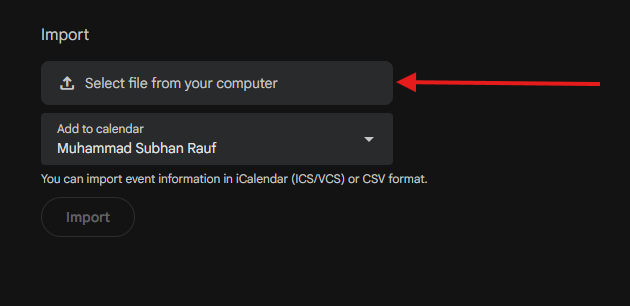
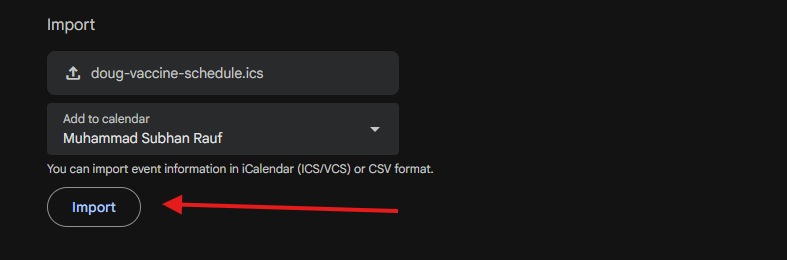
added supabase support and other minor fixes

diff --git a/vaccine-scheduler-frontend/src/components/export/ExportModal.jsx b/vaccine-scheduler-frontend/src/components/export/ExportModal.jsx
@@ -32,6 +32,22 @@ function ExportModal({ isOpen, onClose, schedule, dogName, dogInfo }) {
     }, 100);
   }
 
+  function handleMainExport() {
+    switch (activeTab) {
+      case 'apple':
+        handleExportICS();
+        break;
+      case 'google':
+        handleExportGoogle();
+        break;
+      case 'pdf':
+        handleExportPDF();
+        break;
+      default:
+        break;
+    }
+  }
+
   // Email handling
   function validateEmail(email) {
     return /^[^\s@]+@[^\s@]+\.[^\s@]+$/.test(email);
@@ -140,21 +156,11 @@ function ExportModal({ isOpen, onClose, schedule, dogName, dogInfo }) {
           <div className="export-tab-content">
             <h4>Import to Apple Calendar</h4>
             <ol className="export-steps">
-              <li>Click the "Download .ics File" button below</li>
+              <li>Click the "Download" button above</li>
               <li>Open the downloaded file</li>
               <li>Apple Calendar will prompt you to add the events</li>
               <li>Click "Add" to confirm</li>
             </ol>
-            <div className="export-action">
-              <button className="btn btn-primary" onClick={handleExportICS}>
-                <svg width="16" height="16" viewBox="0 0 24 24" fill="none" stroke="currentColor" strokeWidth="2">
-                  <path d="M21 15v4a2 2 0 0 1-2 2H5a2 2 0 0 1-2-2v-4"/>
-                  <polyline points="7 10 12 15 17 10"/>
-                  <line x1="12" y1="15" x2="12" y2="3"/>
-                </svg>
-                Download .ics File
-              </button>
-            </div>
           </div>
         );
 
@@ -166,7 +172,7 @@ function ExportModal({ isOpen, onClose, schedule, dogName, dogInfo }) {
               <div className="export-step-item">
                 <div className="export-step-number">1</div>
                 <div className="export-step-content">
-                  <p>Click the "Download & Open Google Calendar" button below</p>
+                  <p>Click the "Download" button above. The .ics file will download automatically and Google Calendar will open.</p>
                   <div className="export-screenshot">
                     <img src="/exportSteps/Google/step 1.png" alt="Step 1: Click the download button" />
                   </div>
@@ -176,9 +182,9 @@ function ExportModal({ isOpen, onClose, schedule, dogName, dogInfo }) {
               <div className="export-step-item">
                 <div className="export-step-number">2</div>
                 <div className="export-step-content">
-                  <p>The .ics file will download automatically</p>
+                  <p>Click "Select file from your computer" and select the downloaded .ics file</p>
                   <div className="export-screenshot">
-                    <img src="/exportSteps/Google/step 2.png" alt="Step 2: ICS file downloads" />
+                    <img src="/exportSteps/Google/step 2.png" alt="Step 2: Select file from computer" />
                   </div>
                 </div>
               </div>
@@ -186,9 +192,9 @@ function ExportModal({ isOpen, onClose, schedule, dogName, dogInfo }) {
               <div className="export-step-item">
                 <div className="export-step-number">3</div>
                 <div className="export-step-content">
-                  <p>The downloaded file will be in your Downloads folder, or whatever location you have set as your default download folder.</p>
+                  <p>Choose which calendar to add events to</p>
                   <div className="export-screenshot">
-                    <img src="/exportSteps/Google/step 3.png" alt="Step 3: Google Calendar import dialog" />
+                    <img src="/exportSteps/Google/step 3.png" alt="Step 3: Choose calendar" />
                   </div>
                 </div>
               </div>
@@ -196,53 +202,12 @@ function ExportModal({ isOpen, onClose, schedule, dogName, dogInfo }) {
               <div className="export-step-item">
                 <div className="export-step-number">4</div>
                 <div className="export-step-content">
-                  <p>Click "Select file from your computer"</p>
-                  <div className="export-screenshot">
-                    <img src="/exportSteps/Google/step 4.png" alt="Step 4: Select file from computer" />
-                  </div>
-                </div>
-              </div>
-
-              <div className="export-step-item">
-                <div className="export-step-number">5</div>
-                <div className="export-step-content">
-                  <p>Select the downloaded .ics file</p>
-                  <div className="export-screenshot">
-                    <img src="/exportSteps/Google/step 5.png" alt="Step 5: Select the ICS file" />
-                  </div>
-                </div>
-              </div>
-
-              <div className="export-step-item">
-                <div className="export-step-number">6</div>
-                <div className="export-step-content">
-                  <p>Choose which calendar to add events to</p>
-                  <div className="export-screenshot">
-                    <img src="/exportSteps/Google/step 6.png" alt="Step 6: Choose calendar" />
-                  </div>
-                </div>
-              </div>
-
-              <div className="export-step-item">
-                <div className="export-step-number">7</div>
-                <div className="export-step-content">
                   <p>Click "Import"</p>
                   <div className="export-screenshot">
-                    <img src="/exportSteps/Google/step 7.png" alt="Step 7: Click Import" />
+                    <img src="/exportSteps/Google/step 4.png" alt="Step 4: Click Import" />
                   </div>
                 </div>
               </div>
-            </div>
-
-            <div className="export-action">
-              <button className="btn btn-primary" onClick={handleExportGoogle}>
-                <svg width="16" height="16" viewBox="0 0 24 24" fill="none" stroke="currentColor" strokeWidth="2">
-                  <path d="M21 15v4a2 2 0 0 1-2 2H5a2 2 0 0 1-2-2v-4"/>
-                  <polyline points="7 10 12 15 17 10"/>
-                  <line x1="12" y1="15" x2="12" y2="3"/>
-                </svg>
-                Download & Open Google Calendar
-              </button>
             </div>
           </div>
         );
@@ -252,19 +217,11 @@ function ExportModal({ isOpen, onClose, schedule, dogName, dogInfo }) {
           <div className="export-tab-content">
             <h4>Save as PDF</h4>
             <ol className="export-steps">
-              <li>Click the "Open Print Dialog" button below</li>
+              <li>Click the "Download" button above</li>
               <li>Select "Save as PDF" as your printer/destination</li>
               <li>Choose your save location</li>
               <li>Click "Save" or "Print"</li>
             </ol>
-            <div className="export-action">
-              <button className="btn btn-primary" onClick={handleExportPDF}>
-                <svg width="16" height="16" viewBox="0 0 24 24" fill="currentColor">
-                  <path d="M19 8H5c-1.66 0-3 1.34-3 3v6h4v4h12v-4h4v-6c0-1.66-1.34-3-3-3zm-3 11H8v-5h8v5zm3-7c-.55 0-1-.45-1-1s.45-1 1-1 1 .45 1 1-.45 1-1 1zm-1-9H6v4h12V3z"/>
-                </svg>
-                Open Print Dialog
-              </button>
-            </div>
           </div>
         );
 
@@ -356,8 +313,19 @@ function ExportModal({ isOpen, onClose, schedule, dogName, dogInfo }) {
     }
   }
 
+  const headerActionButton = activeTab !== 'email' ? (
+    <button className="btn btn-primary" onClick={handleMainExport}>
+      <svg width="16" height="16" viewBox="0 0 24 24" fill="none" stroke="currentColor" strokeWidth="2">
+        <path d="M21 15v4a2 2 0 0 1-2 2H5a2 2 0 0 1-2-2v-4"/>
+        <polyline points="7 10 12 15 17 10"/>
+        <line x1="12" y1="15" x2="12" y2="3"/>
+      </svg>
+      Download
+    </button>
+  ) : null;
+
   return (
-    <Modal isOpen={isOpen} onClose={handleClose} title="Export Vaccination Schedule">
+    <Modal isOpen={isOpen} onClose={handleClose} title="Export Vaccination Schedule" headerAction={headerActionButton}>
       <div className="export-modal">
         <nav className="export-tabs">
           {TABS.map((tab) => (

diff --git a/vaccine-scheduler-frontend/src/components/common/Modal.jsx b/vaccine-scheduler-frontend/src/components/common/Modal.jsx
@@ -1,6 +1,6 @@
 import { useEffect } from 'react';
 
-function Modal({ isOpen, onClose, title, children, hideHeader = false }) {
+function Modal({ isOpen, onClose, title, children, hideHeader = false, headerAction = null }) {
   useEffect(() => {
     if (isOpen) {
       document.body.style.overflow = 'hidden';
@@ -19,10 +19,17 @@ function Modal({ isOpen, onClose, title, children, hideHeader = false }) {
       <div className={`modal-content ${hideHeader ? 'modal-content--no-header' : ''}`} onClick={(e) => e.stopPropagation()}>
         {!hideHeader && (
           <div className="modal-header">
-            <h3>{title}</h3>
-            <button className="modal-close" onClick={onClose}>
-              &times;
-            </button>
+            <div className="modal-header-top">
+              <h3>{title}</h3>
+              <button className="modal-close" onClick={onClose}>
+                &times;
+              </button>
+            </div>
+            {headerAction && (
+              <div className="modal-header-action">
+                {headerAction}
+              </div>
+            )}
           </div>
         )}
         {hideHeader && (

diff --git a/vaccine-scheduler-frontend/src/index.css b/vaccine-scheduler-frontend/src/index.css
@@ -785,16 +785,40 @@ a:hover {
 
 .modal-header {
   display: flex;
-  justify-content: space-between;
-  align-items: center;
+  flex-direction: column;
   padding: var(--spacing-md) var(--spacing-lg);
   border-bottom: 1px solid var(--border-color);
   background: var(--color-neutral-light);
+  position: relative;
+}
+
+.modal-header-top {
+  display: flex;
+  align-items: center;
+  width: 100%;
+  padding-right: 2rem;
 }
 
 .modal-header h3 {
   margin: 0;
   color: var(--color-primary);
+}
+
+.modal-header-top .modal-close {
+  position: absolute;
+  top: var(--spacing-md);
+  right: var(--spacing-lg);
+}
+
+.modal-header-action {
+  display: flex;
+  justify-content: flex-start;
+}
+
+.modal-header-action .btn {
+  display: inline-flex;
+  align-items: center;
+  gap: 0.5rem;
 }
 
 .modal-close {
@@ -1791,7 +1815,9 @@ a:hover {
   display: flex;
   gap: var(--spacing-sm);
 }
-
+.modal-header-top h3{
+  margin-bottom: 0px !important;
+}
 .schedule-view h3 {
   margin-bottom: var(--spacing-md);
   color: var(--color-primary);

diff --git a/vaccine-scheduler-frontend/src/components/export/ExportModal.css b/vaccine-scheduler-frontend/src/components/export/ExportModal.css
@@ -10,8 +10,6 @@
   margin: -1rem -1.5rem 1.5rem -1.5rem;
   padding: 0 0.5rem;
   background: var(--color-neutral-light);
-  overflow-x: auto;
-  -webkit-overflow-scrolling: touch;
 }
 
 .export-tab {

diff --git a/vaccine-scheduler/config/settings/base.py b/vaccine-scheduler/config/settings/base.py
@@ -5,6 +5,7 @@ import os
 from pathlib import Path
 from datetime import timedelta
 
+import dj_database_url
 from dotenv import load_dotenv
 
 # Load environment variables from .env file
@@ -76,15 +77,27 @@ TEMPLATES = [
 WSGI_APPLICATION = 'config.wsgi.application'
 
 # Database
-DATABASES = {
-    'default': {
-        'ENGINE': 'django.db.backends.sqlite3',
-        'NAME': BASE_DIR / 'db' / 'vaccine_scheduler.db',
-    }
-}
+# Use DATABASE_URL if available (Supabase PostgreSQL), otherwise fallback to SQLite
+DATABASE_URL = os.getenv('DATABASE_URL')
 
-# Ensure db directory exists
-(BASE_DIR / 'db').mkdir(exist_ok=True)
+if DATABASE_URL and DATABASE_URL != 'your-supabase-database-url-here':
+    DATABASES = {
+        'default': dj_database_url.config(
+            default=DATABASE_URL,
+            conn_max_age=600,
+            conn_health_checks=True,
+        )
+    }
+else:
+    # Fallback to SQLite for local development without Supabase
+    DATABASES = {
+        'default': {
+            'ENGINE': 'django.db.backends.sqlite3',
+            'NAME': BASE_DIR / 'db' / 'vaccine_scheduler.db',
+        }
+    }
+    # Ensure db directory exists for SQLite
+    (BASE_DIR / 'db').mkdir(exist_ok=True)
 
 # Custom User Model
 AUTH_USER_MODEL = 'accounts.User'

diff --git a/vaccine-scheduler/test_db_connection.py b/vaccine-scheduler/test_db_connection.py
@@ -1,0 +1,44 @@
+"""Simple script to test Supabase database connection."""
+import os
+import socket
+from dotenv import load_dotenv
+import psycopg2
+
+# Force IPv4
+original_getaddrinfo = socket.getaddrinfo
+
+def getaddrinfo_ipv4_only(host, port, family=0, type=0, proto=0, flags=0):
+    return original_getaddrinfo(host, port, socket.AF_INET, type, proto, flags)
+
+socket.getaddrinfo = getaddrinfo_ipv4_only
+
+# Load environment variables
+load_dotenv()
+
+DATABASE_URL = os.getenv('DATABASE_URL')
+
+print("Testing Supabase connection...")
+print(f"Host: {DATABASE_URL.split('@')[1].split('/')[0] if DATABASE_URL else 'Not set'}")
+
+try:
+    conn = psycopg2.connect(DATABASE_URL)
+    cursor = conn.cursor()
+
+    # Simple test query
+    cursor.execute("SELECT version();")
+    version = cursor.fetchone()
+    print(f"\nConnection successful!")
+    print(f"PostgreSQL version: {version[0]}")
+
+    # Test we can query
+    cursor.execute("SELECT 1 + 1 AS result;")
+    result = cursor.fetchone()
+    print(f"Test query (1+1): {result[0]}")
+
+    cursor.close()
+    conn.close()
+    print("\nDatabase connection is working!")
+
+except Exception as e:
+    print(f"\nConnection failed!")
+    print(f"Error: {e}")
